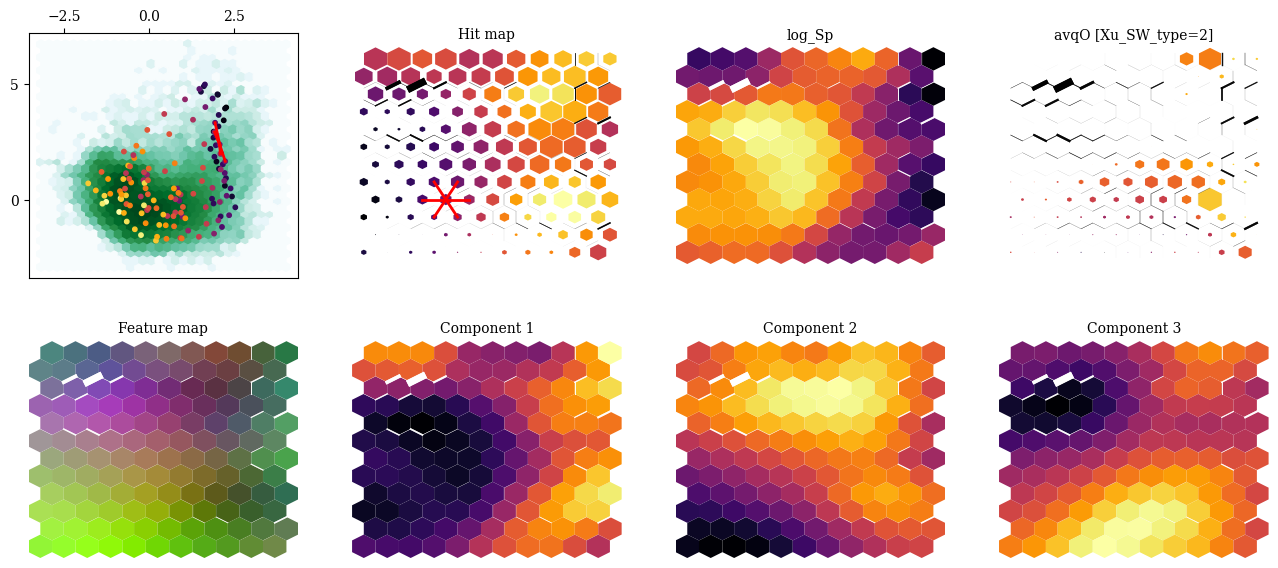
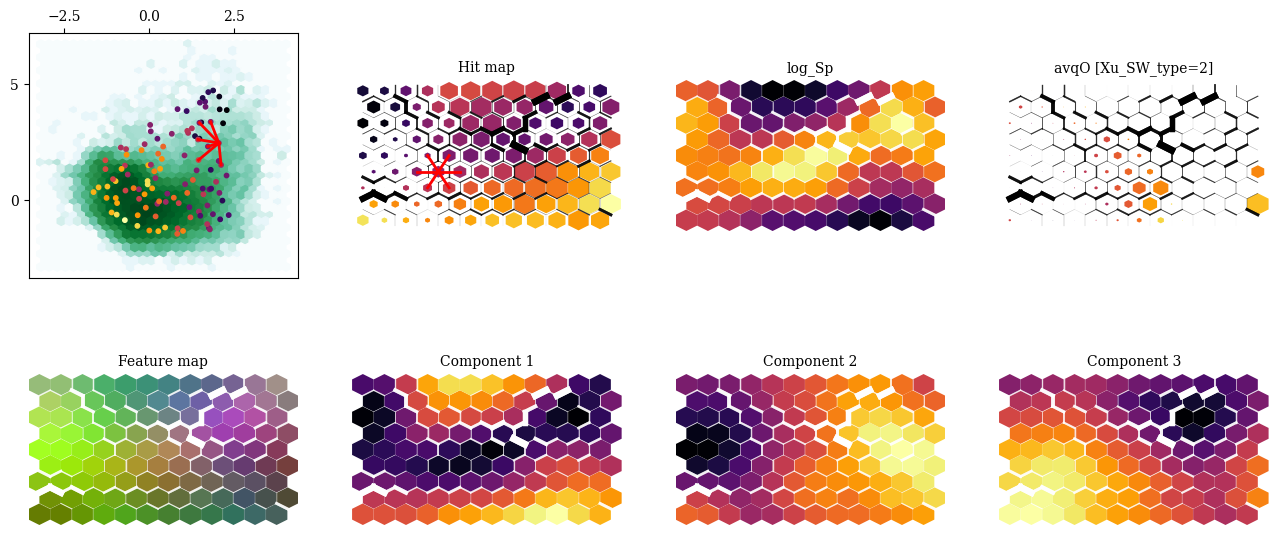
Adding new figures

diff --git a/swinsom-ace.py b/swinsom-ace.py
@@ -50,7 +50,7 @@ if str(sys.argv[1]) not in cases:
     sys.exit("Arguments error.")
     
 case = str(sys.argv[1])
-dynamic = True
+dynamic = False
 params = {'Roberts' :
               {'ybeg' : 2002,
                'yend' : 2004,
@@ -231,8 +231,8 @@ n_clstr = params[case]['nbr_clusters']
 nfeat   = len(feat[case])
 
 if not dynamic:
-    sg = min(sg, int(max(m,n)/2))
-    lr = 0.5
+    sg = min(sgmax, int(max(mmax,nmax)/2))
+    lr = lrmax/2
 
 if acode:
     batch_size = params[case]['batch size']
